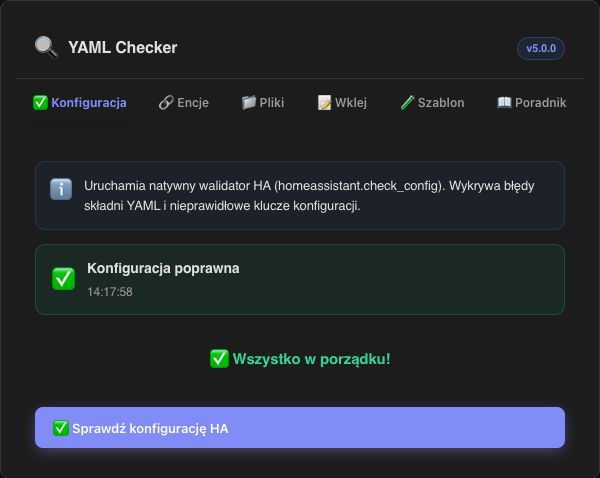
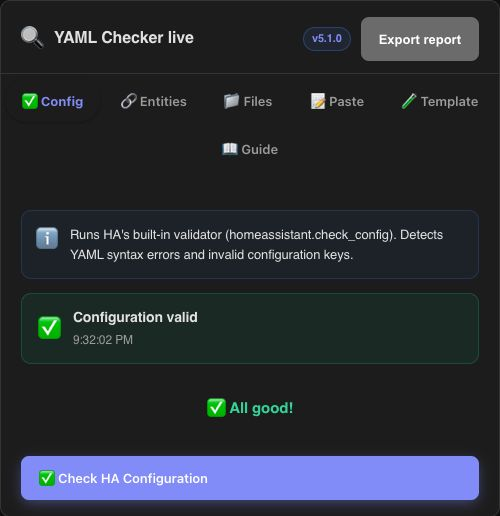
docs: refresh YAML 5.1 native screenshots and migration guidance

diff --git a/README.md b/README.md
@@ -86,7 +86,7 @@ another export.
 The card identifies HA's built-in validator. Dark mode follows your Home
 Assistant theme.*
 
-These are native Home Assistant screenshots of version 5.0.0 on a synthetic staging configuration. The valid result comes from HA’s configuration check. No household data appears in the images.
+These are native Home Assistant screenshots of version 5.1.0 on a synthetic staging configuration. The valid result comes from HA’s configuration check. No household data appears in the images.
 
 ## Installation
 
@@ -96,34 +96,43 @@ For the legacy Dashboard-card installation:
 2. Add `https://github.com/MacSiem/ha-yaml-checker` as category **Dashboard**.
 3. Install **YAML Checker** and reload your browser.
 
-Version 5.0.0 adds an **Integration** package. Check the
-[published releases](https://github.com/MacSiem/ha-yaml-checker/releases) for
-availability. If the HACS default catalog still lists the older Dashboard
-package while the category migration is under review, add this repository as a
-custom **Integration** after the 5.0.0 release is published:
-download YAML Checker in HACS, restart HA once, then add **YAML Checker** under
-Settings → Devices & services. The card registers automatically. The optional
-administrator sidebar appears at `/yaml-checker`; integration options can hide it.
-HA 2025.2 or later is required.
+Version 5.0.0 introduced the **Integration** package; version 5.1.0 also
+includes reviewed check reports. To install the integration:
 
-For manual development installation, copy `custom_components/ha_yaml_checker`
-to `<config>/custom_components/`, restart HA, and add the integration as above.
+1. Install the files:
+   - **HACS:** once the default catalog lists this repository as an
+     **Integration**, install **YAML Checker** from HACS → Integrations.
+     Until then HACS installs the Dashboard card and does not allow adding
+     the same registered repository again as a custom Integration.
+   - **Manual:** copy `custom_components/ha_yaml_checker` from the
+     [latest release](https://github.com/MacSiem/ha-yaml-checker/releases)
+     into your `config/custom_components/` directory.
+2. Restart Home Assistant.
+3. **Settings → Devices & services → Add integration → YAML Checker.**
+4. Open the administrator sidebar at `/yaml-checker` or keep your dashboard
+   card. HA 2025.2 or later is required.
 
-For a Dashboard-plugin migration, first update the standalone card to 5.0.0
-and reload the browser. Then change only this repository's HACS registration
-to Integration and install the integration package. Keep your existing card
-configuration and resource while checking the migration: storage-mode dashboards
-reuse a matching existing card resource, so it must contain the current card.
-Confirm that the integration is loaded, the card displays 5.0.0, and pasted YAML
-gets a separate HA parser result before retiring the old plugin registration.
-The 4.1.13 Dashboard package remains a rollback baseline. The default HACS
-catalog may retain its Dashboard category while the integration migration is
-under review. A category change alone is not a verified migration.
+Keep the working Dashboard plugin, its resource and existing card configuration
+while installing the integration manually. First update the standalone card to
+5.1.0 and reload the browser: storage-mode dashboards reuse the existing matching
+resource, so that resource must serve the current card. Verify that the integration
+is loaded, the card displays 5.1.0 and pasted YAML has a separate HA parser result
+before retiring the old plugin. The public 5.0.0 package remains the rollback
+baseline. The default catalog category migration is still under review; a category
+change alone is not a verified installation or migration.
 
 Without an existing card resource, storage mode creates one versioned module.
 YAML resource mode loads the bundled module automatically; existing YAML card
 definitions remain valid. After any frontend update, reload the browser to use
 the new module. Removing the integration removes only its owned panel/resource.
+
+### Editing a card with a draft
+
+Ordinary tab, language and layout changes retain the current YAML or template
+draft. Leaving dashboard edit mode without changing the card also retains it.
+Saving a changed card configuration can recreate the card and reset its local
+draft; copy an unsaved draft before doing that. Draft text is not persisted as
+part of the card configuration or exported report.
 
 ## Quick start
 

diff --git a/CHANGELOG.md b/CHANGELOG.md
@@ -5,6 +5,7 @@
 - Freeze one preview and consume one Save intent, invalidate stale account/connection/role/input results, and report download initiation as Unconfirmed when the browser cannot confirm a filesystem save.
 - Use the shared native review dialog with keyboard cancellation, focus return and per-export private fields off by default.
 - Make controls easier to use in narrow cards, wrap navigation and switch to the same tab choices in a compact selector below 280 px.
+- Restore the card shell and same-instance drafts when Home Assistant reconnects the custom element after dashboard editing without assigning fresh data; discarded check results remain discarded and no checks rerun automatically.
 - Test the integration in actual Home Assistant minimum 2025.2.0, stable 2026.10.1 and published beta 2026.10.0b7, retaining the real version assertion.
 
 ## 5.0.0 (2026-10-07)
